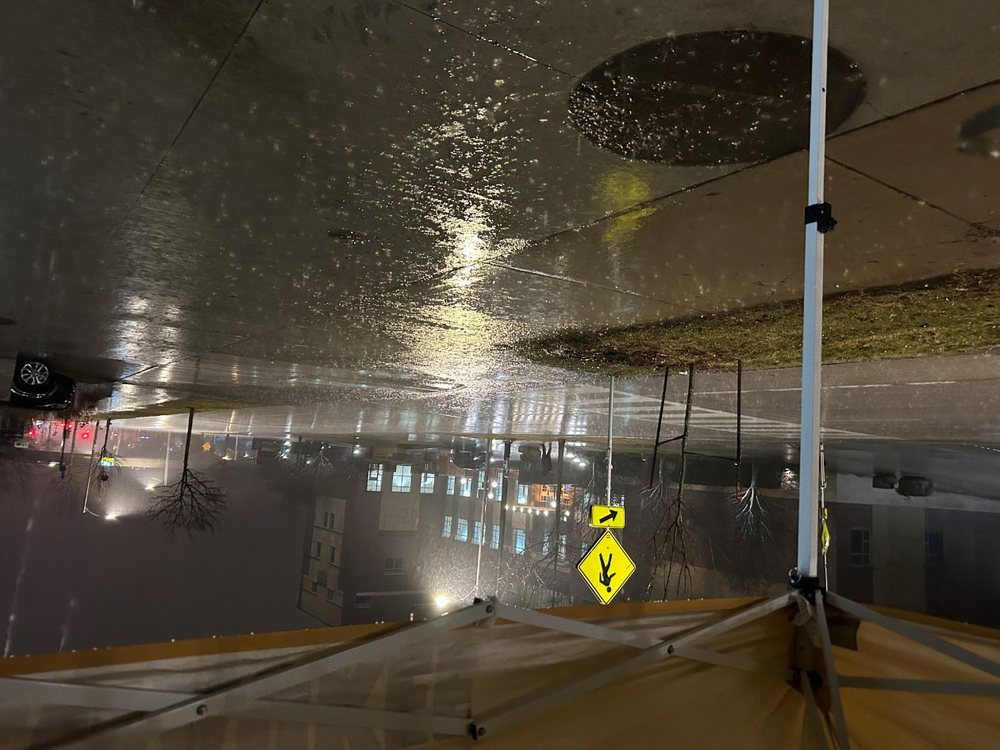
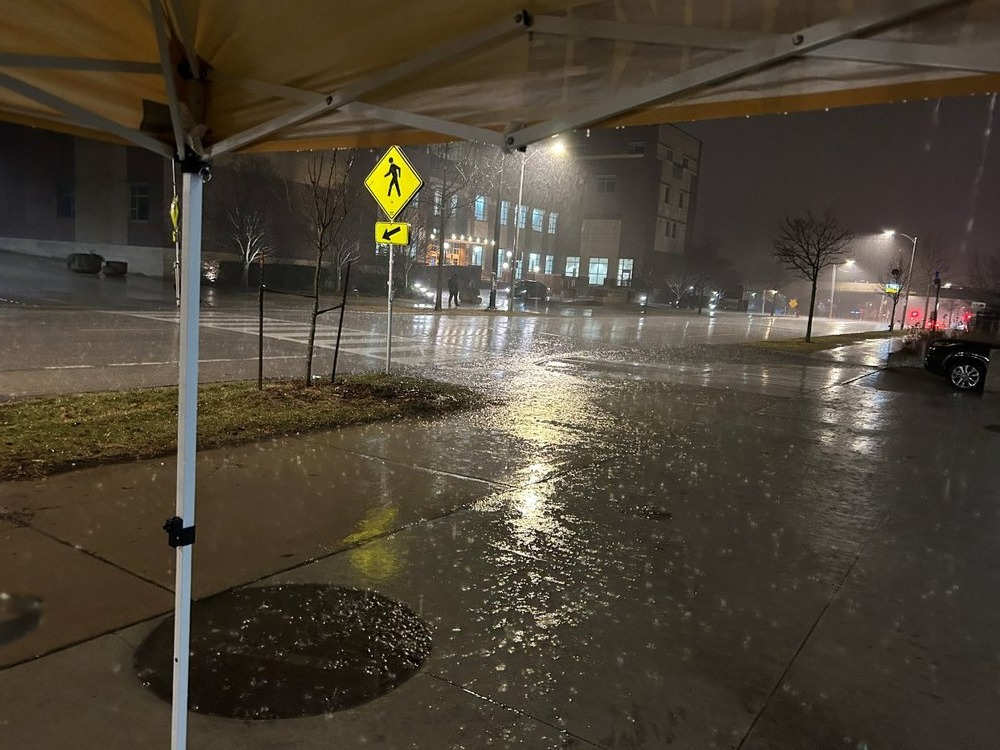
Add files via upload

diff --git a/index.html b/index.html
@@ -521,17 +521,17 @@ footer .wrap{display:flex;flex-wrap:wrap;gap:16px;justify-content:space-between;
       <div class="card rv">
         <div class="icon"><svg viewBox="0 0 24 24" stroke-linecap="round" stroke-linejoin="round"><path d="M21 12.8A9 9 0 1 1 11.2 3a7 7 0 0 0 9.8 9.8z"/></svg></div>
         <h3>Deaths peak at night</h3>
-        <p>Darkness, dark clothing, and complex backgrounds slow driver detection and response.</p>
+        <p>Pedestrian deaths peak at night; darkness and dark clothing slow driver response.</p>
       </div>
       <div class="card rv">
         <div class="icon"><svg viewBox="0 0 24 24" stroke-linecap="round" stroke-linejoin="round"><path d="M12 3l7 3v5c0 4.5-3 7.7-7 9-4-1.3-7-4.5-7-9V6z"/><path d="M9 12h6"/></svg></div>
         <h3>Existing treatments fall short</h3>
-        <p>RRFBs improve yielding but don't light the pedestrian. HAWK signals are costly. Streetlights light the pavement, not the person.</p>
+        <p>RRFBs improve yielding but do not light the pedestrian. HAWK signals are costly and not feasible everywhere. Streetlights light the pavement, not the pedestrian.</p>
       </div>
       <div class="card rv">
         <div class="icon"><svg viewBox="0 0 24 24" stroke-linecap="round" stroke-linejoin="round"><circle cx="11" cy="11" r="6.5"/><path d="M20 20l-4.5-4.5"/></svg></div>
         <h3>Three gaps in guidance</h3>
-        <p><b style="color:var(--ink)">Spectrum</b>: which color performs best? <b style="color:var(--ink)">Geometry</b>: which height and offset? <b style="color:var(--ink)">Transfer</b>: how to scale results to other roads?</p>
+        <p><b style="color:var(--ink)">Spectrum</b>: which spectrum performs best? <b style="color:var(--ink)">Geometry</b>: which installation geometry works? <b style="color:var(--ink)">Transfer</b>: how to generalize site results to other roads?</p>
       </div>
     </div>
   </div>
